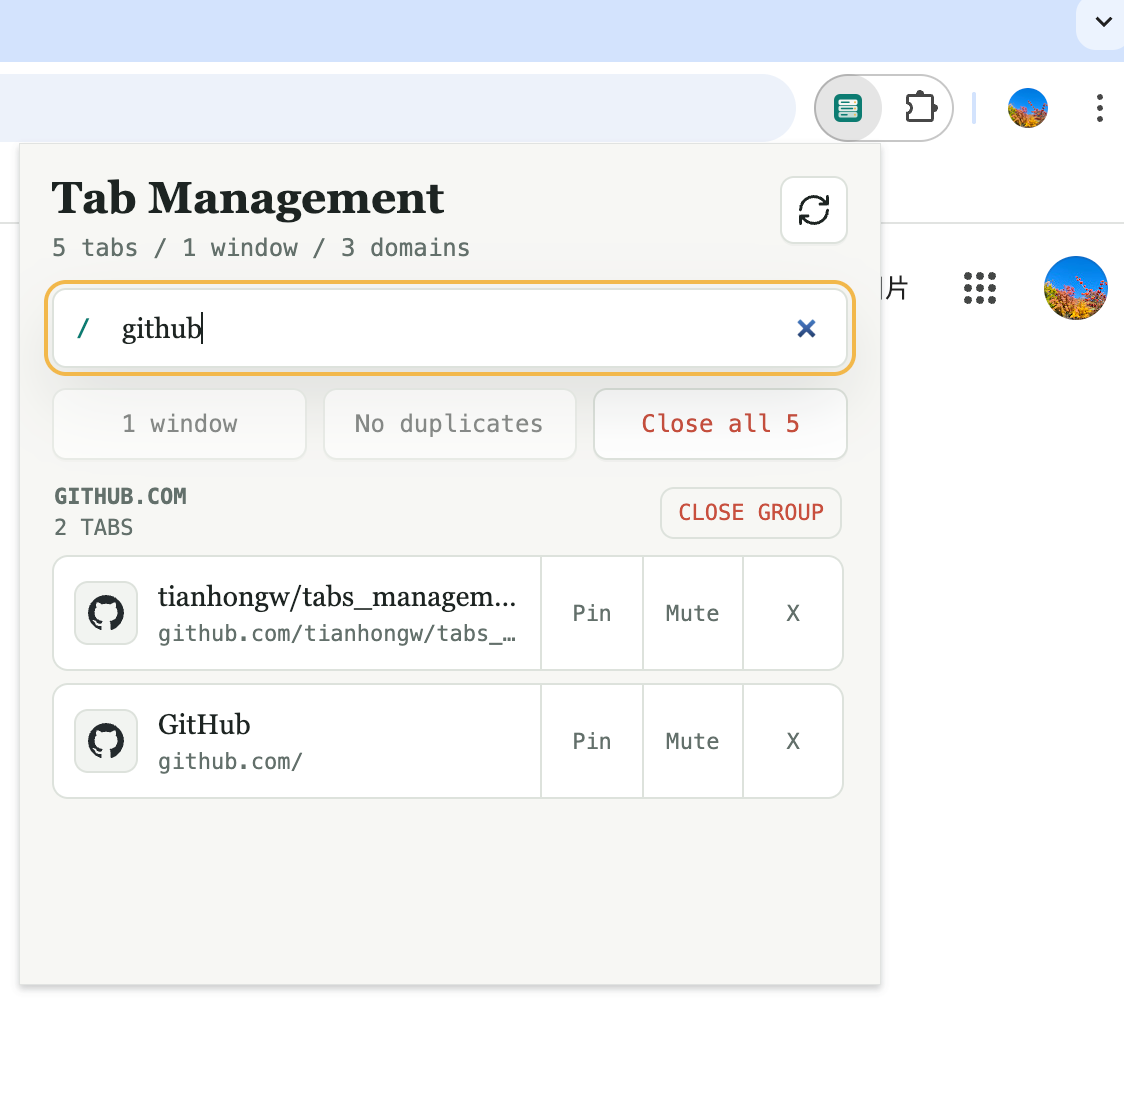
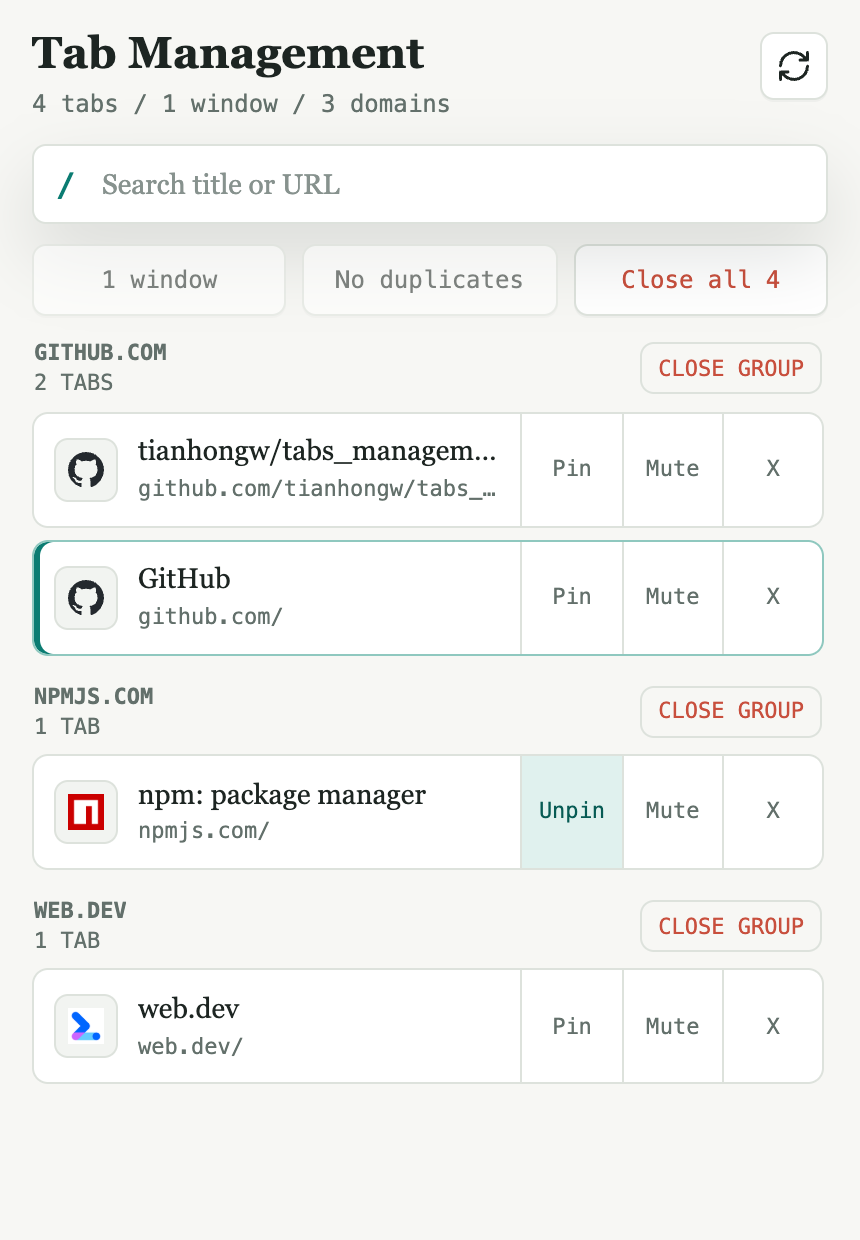
Update README screenshot

diff --git a/README.md b/README.md
@@ -4,7 +4,7 @@ Tab Management is a lightweight Chrome extension for managing tabs that are alre
 
 ## Screenshot
 
-![Tab Management popup filtering GitHub tabs by domain](assets/plugin-screenshot.png)
+<img src="assets/plugin-screenshot.png" alt="Tab Management popup showing tabs grouped by domain" width="430">
 
 ## Features
 